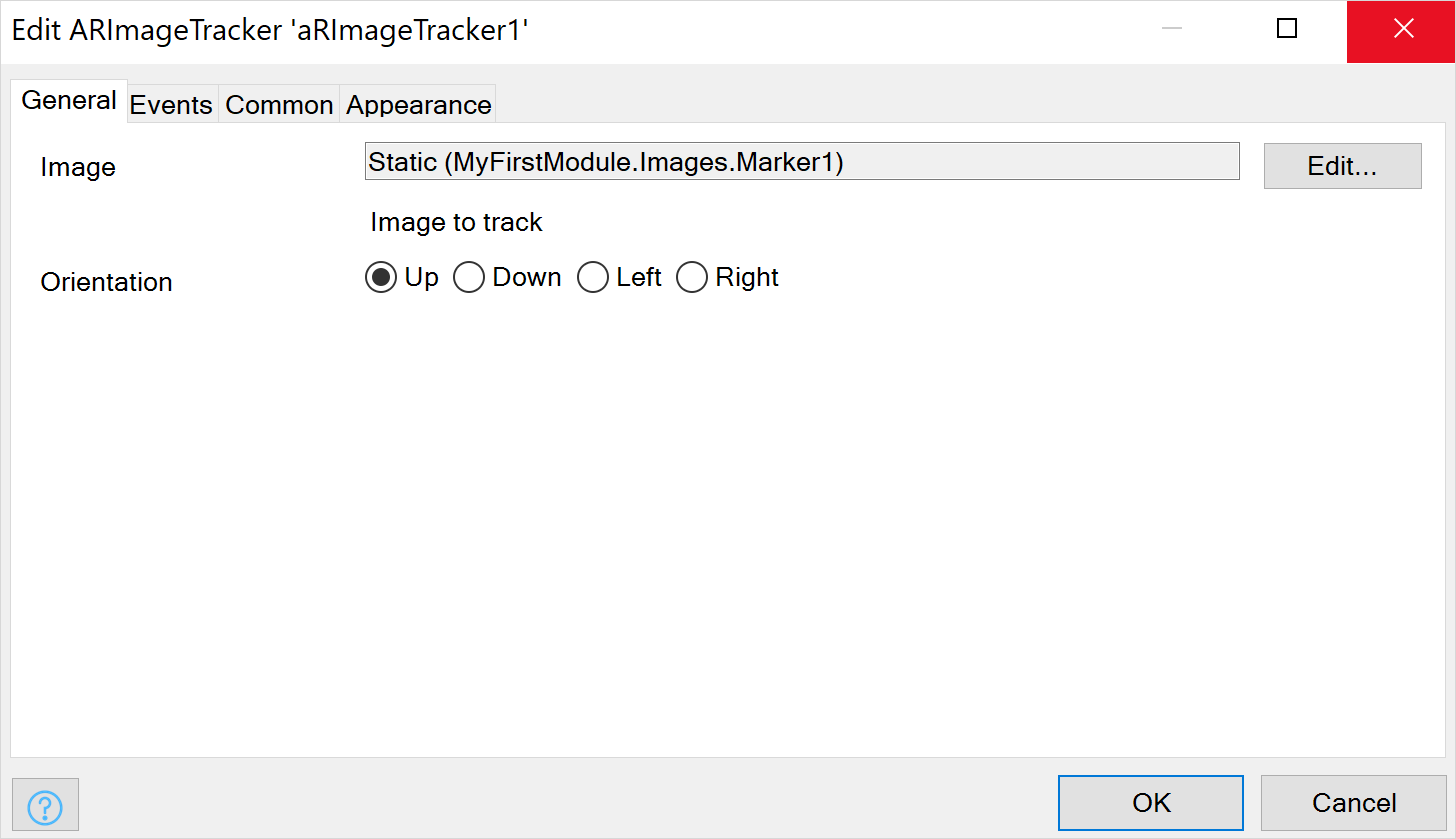
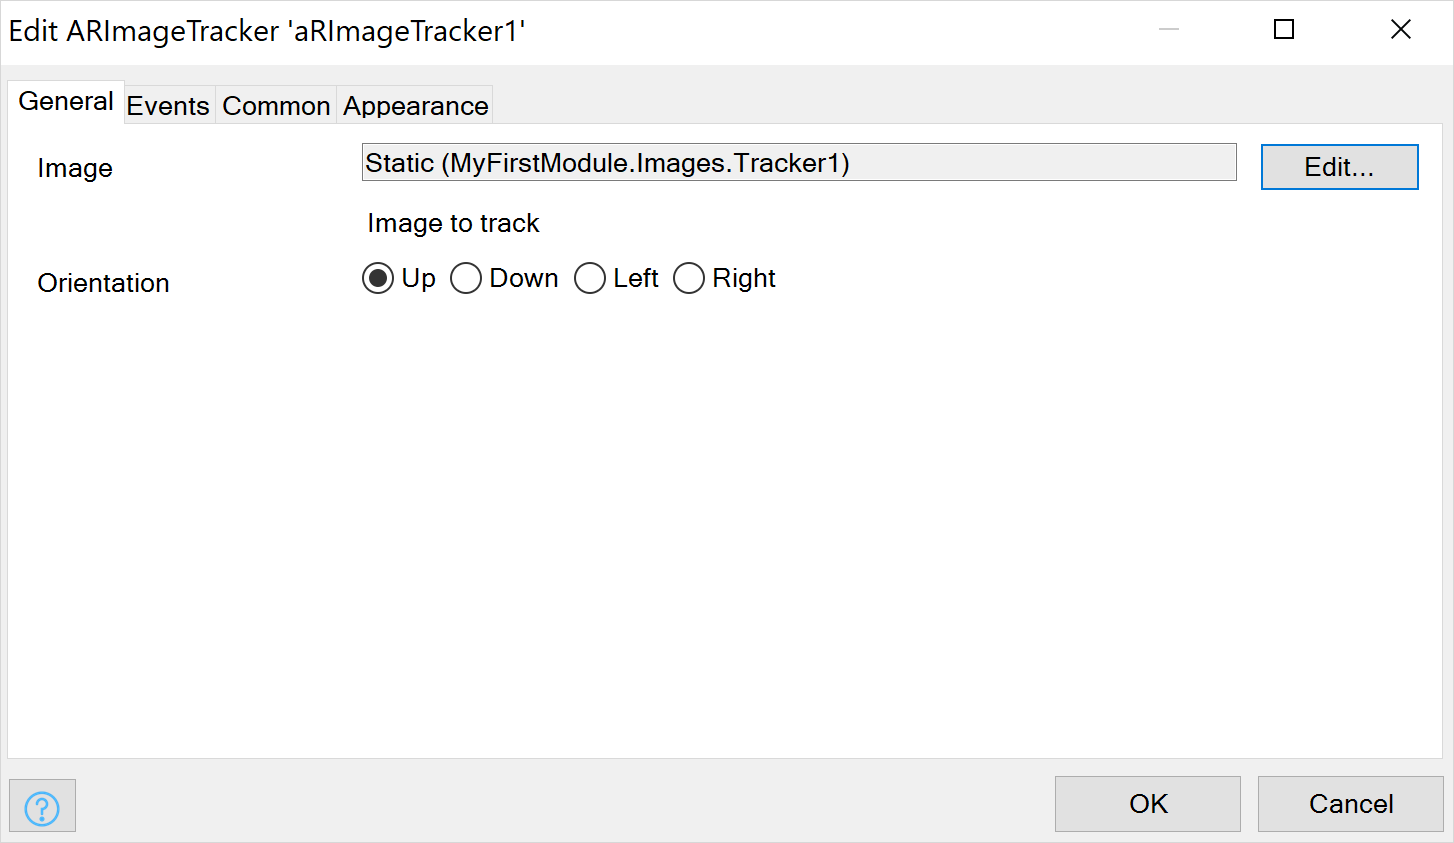
Fix image, define markers and trackers

diff --git a/content/howto/build-hololens.md b/content/howto/build-hololens.md
@@ -40,9 +40,11 @@ This how-to will teach you to build Mendix applications for the first generation
 
 ## 4 Configuring Your Pages
 
-##  4.1 Markers (todo:change all markers in this doc to trackers)
+###  4.1 Markers
 
-First, you will configure your pages in the Mendix Module. To do this, your project needs to be running. You will begin by generating markers. The markers determine the placement of the pages. The HoloLens scans the markers, and through this configuration will know which page goes with which marker. 
+First, you will configure your pages in the Mendix Module. To do this, your project needs to be running. You will begin by generating markers. While trackers are specifically used for mobile (for more information on trackers, see the [ARImageTracker section](#get-started-ar#ar-tracker) of *How to Get Started with AR*), markers are slightly more defined in their requirements. Markers are specifically used for HoloLens, and appear more as QR codes. 
+
+The markers determine the placement of the pages. The HoloLens scans the markers, and through this configuration will know which page goes with which marker. 
 
 To create the markers, complete the following steps:
 
@@ -60,7 +62,7 @@ To create the markers, complete the following steps:
 
 	![](attachments/build-hololens/print-trackers.png)
 
-## 4.2 Configuration
+### 4.2 Configuration
 
 To configure your markers, follow these steps:
 
@@ -74,7 +76,7 @@ To configure your markers, follow these steps:
 
 	![](attachments/build-hololens/edit-config.png)
 
-## 4.3 Screen Settings
+### 4.3 Screen Settings
 
 To configure you screen settings, follow these instructions:
 
@@ -89,7 +91,7 @@ To configure you screen settings, follow these instructions:
 
 	![](attachments/build-hololens/w-and-h.png)
 
-## 4.4 Web View Info
+### 4.4 Web View Info
 
 To configure your **Web View Info** settings, follow these instructions:
 
@@ -157,11 +159,9 @@ To fix the error, follow these steps:
 	
 	![](attachments/build-hololens/add-dependencies.png)
 	
-1. With both these dependencies selected, click **Install**:
+1. With both these dependencies and your *.msixbundle*  selected, click **Install**:
 	
 	![](attachments/build-hololens/install-dependencies.png)
-
-TODO: IS THIS THE END OF THE ERROR FLOW?
 
 You can now check for your Mendix app and see the results of your installations:
 

diff --git a/content/howto/get-started-ar.md b/content/howto/get-started-ar.md
@@ -51,7 +51,7 @@ Very little configuration is necessary to make your AR function. All you need is
 1. Click **Image** > **Edit**. 
 1.  Select a tracker from an image collection. This image will be the foundation of your AR application and is what your camera will track:
 
-	{{% image_container width="300" %}}![Select tracker](attachments/get-started/select-tracker.png){{% /image_container %}}
+	{{% image_container width="300" %}}![Select tracker](attachments/get-started/select-marker.png){{% /image_container %}}
 
 1.  Click **Run** in Mendix Studio Pro to automatically refresh your Make It Native app. Now your **Hello World AR** app is up and running. You should now see a simple white cube rendered on top of a tracker:
 
@@ -67,7 +67,7 @@ This widget starts an AR scene: the video feed you see on AR apps. It is named A
 
 Selecting **Enable autofocus** > **No** can give a slight benefit to performance, but in most cases you should keep **Yes** selected.
 
-### 4.2 ARImageTracker
+### 4.2 ARImageTracker {#ar-tracker}
 
 The **ARImageTracker** widget allows you to track an image. Like ARContainer, this widget can contain other AR widgets. All widgets you put into ARImageTracker will stick to the image. That means that every object (ARCube, ARSphere, and others) will follow or track the image.
 
